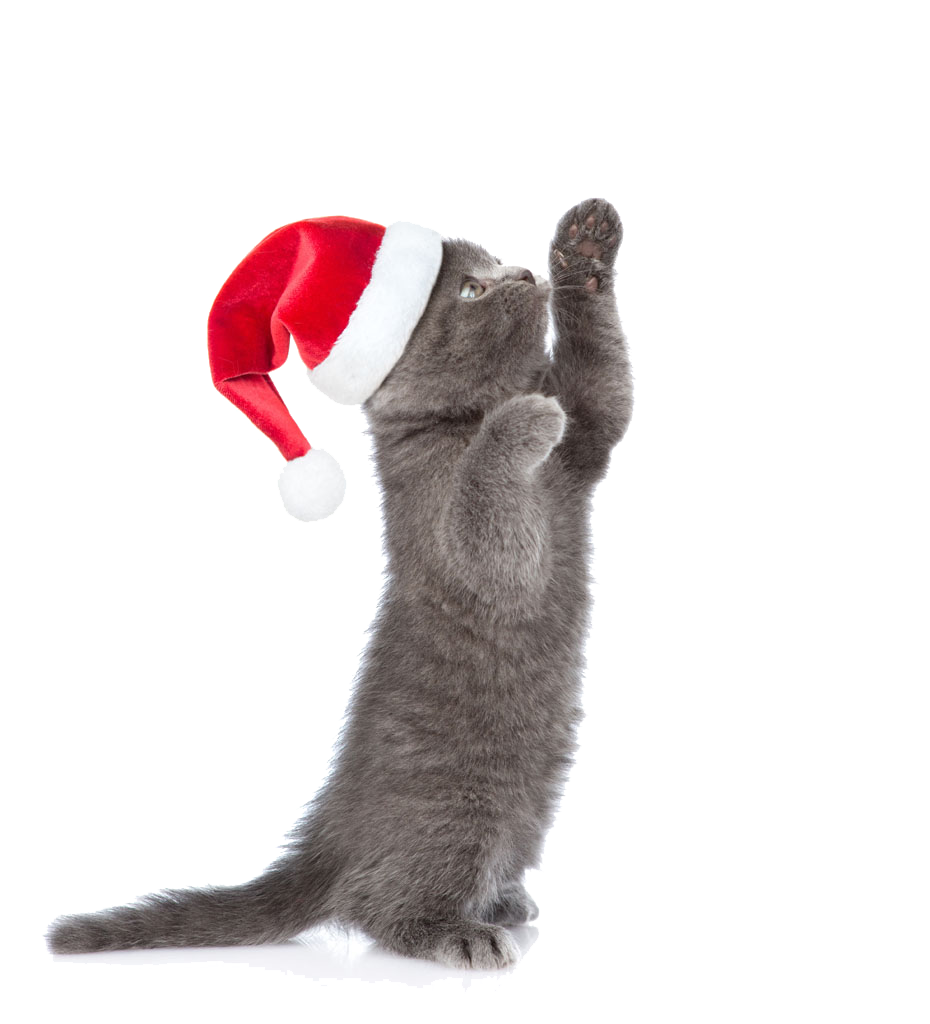
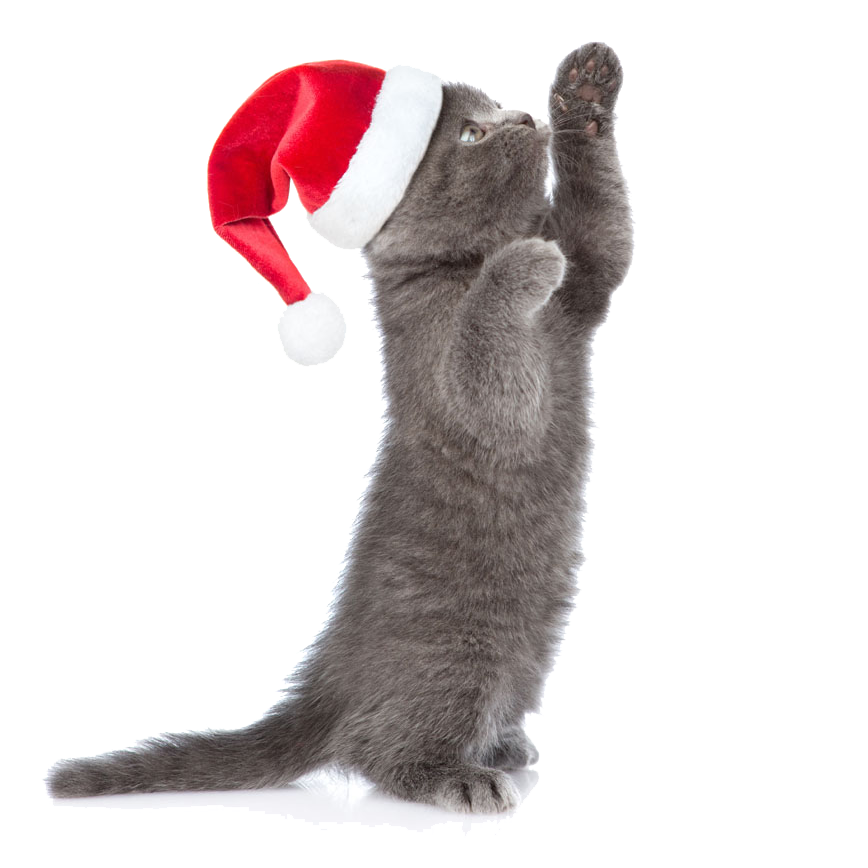
About Us section done

Changed region(s): [[0.0311, 0.0311, 0.7465, 0.9643]]

diff --git a/src/app/containers/homepage/aboutUs.tsx b/src/app/containers/homepage/aboutUs.tsx
@@ -3,7 +3,7 @@ import styled from 'styled-components';
 import tw from 'twin.macro';
 import { SCREENS } from '../../components/responsive';
 
-import catImg from '../../../assets/images/cat_play2.png';
+import catImg from '../../../assets/images/cat_play.png';
 
 const AboutUsContainer = styled.div`
   ${tw`
